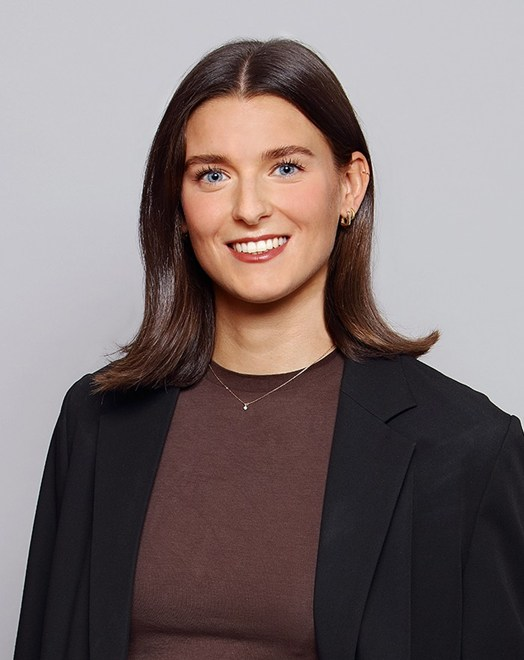
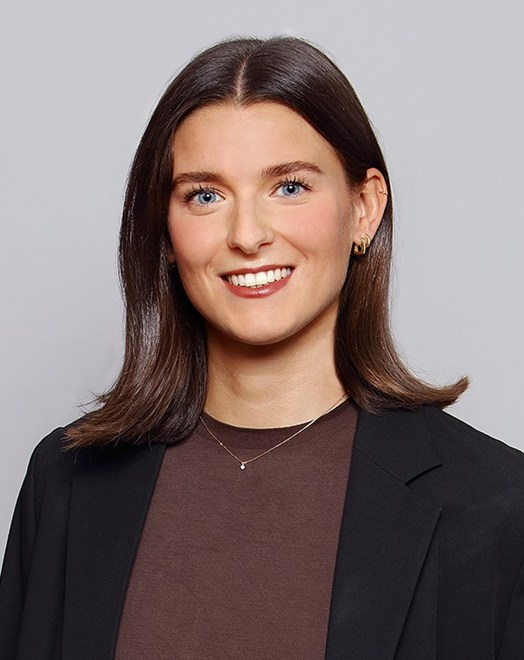
Rework 2025 - Korrektur - Sarah + Jasmin

Changed region(s): [[0.0, 0.0303, 1.0, 1.0], [0.7939, 0.697, 0.8244, 0.7273], [0.2748, 0.7273, 0.3053, 0.7576]]

diff --git a/src/app/team/team.component.html b/src/app/team/team.component.html
@@ -97,6 +97,17 @@
           </div>
         </div>
       </div>
+      <div class="col-md-3 team-column">
+        <div class="border-0 team-card">
+          <div class="gspcontainer">
+            <img class="gspcardimagepartner" src="assets/images/jmanzenreither.jpg" alt="Jasmin Manzenreither">
+            <div class="gspteambottomcentered">
+              <strong class="team-person-name">Jasmin Manzenreither</strong>
+              <span class="team-person-role">Juristische Mitarbeiterin</span>
+            </div>
+          </div>
+        </div>
+      </div>
     </div>
     <div class="row team-section-title">
       <div class="col-md-8"><h2>{{'KANZLEILEITUNG' | translate }}</h2></div>
